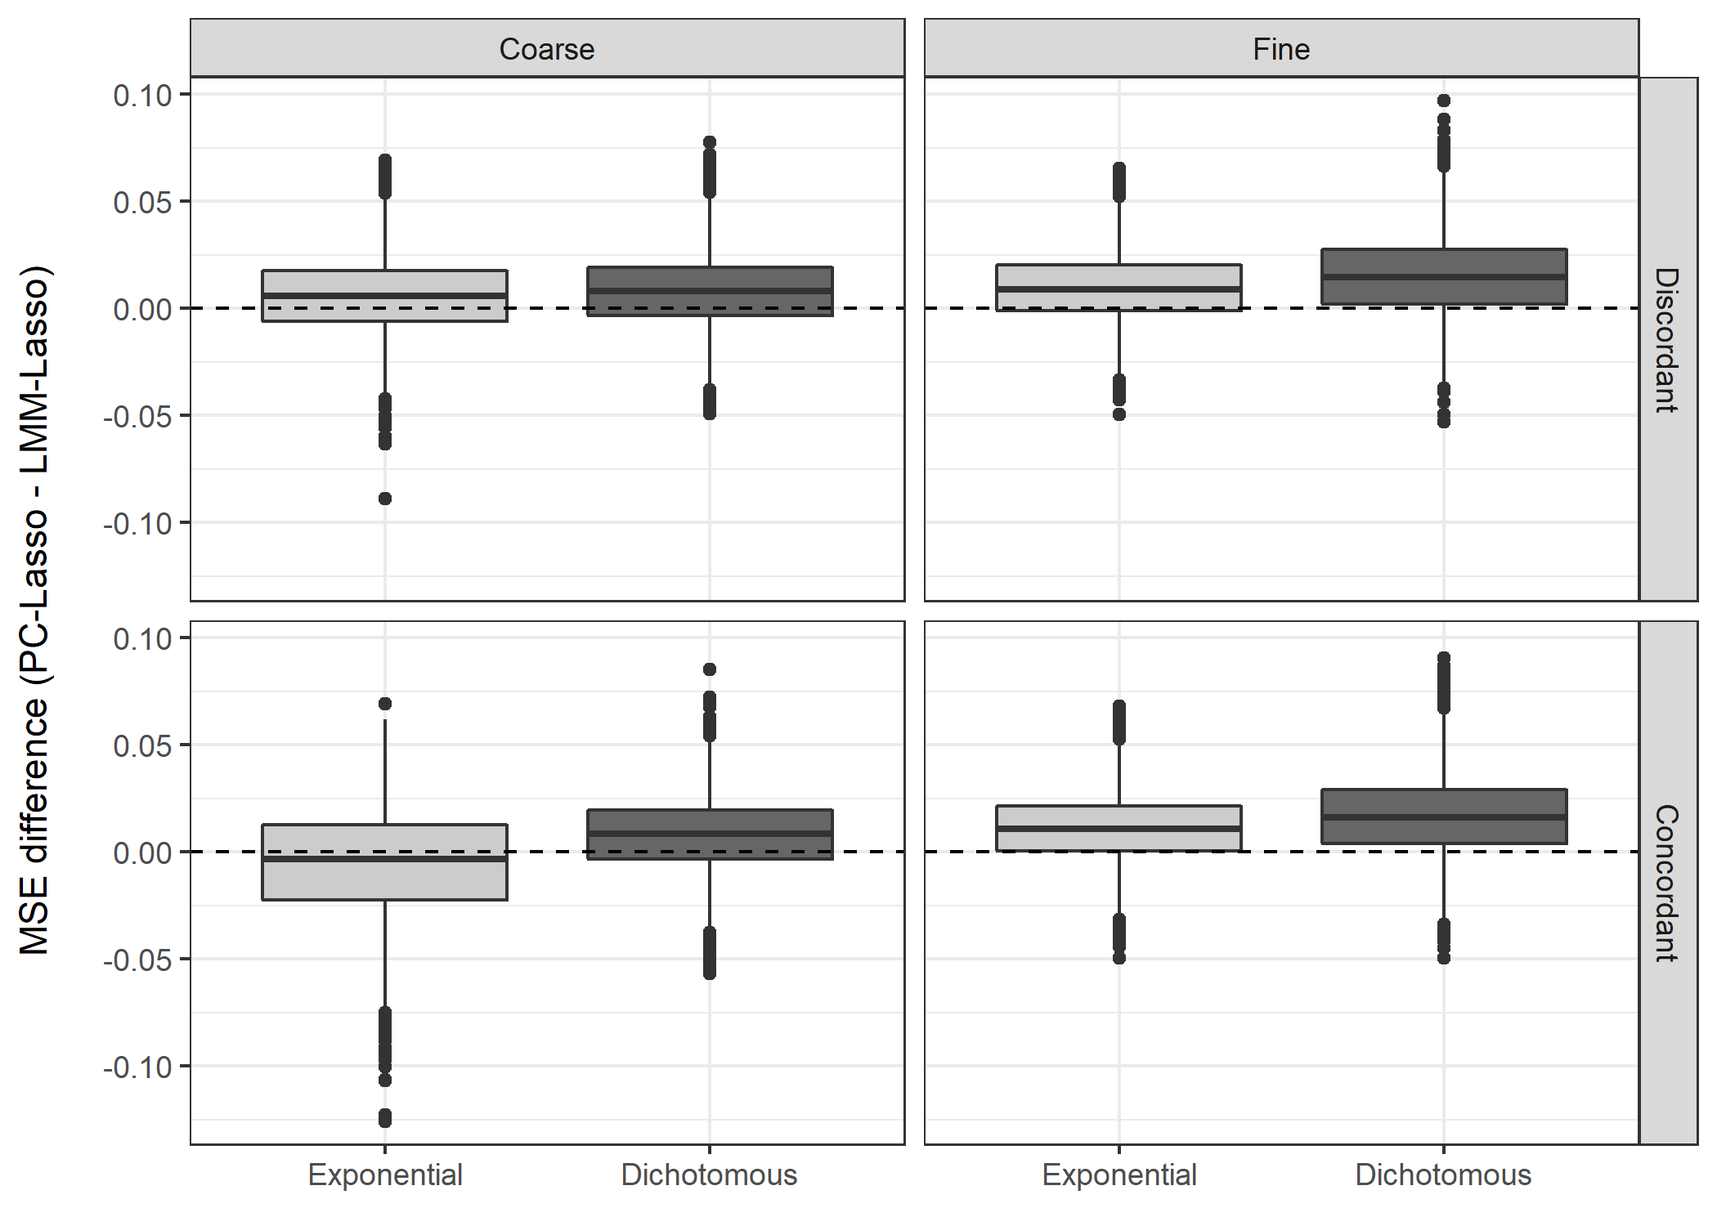
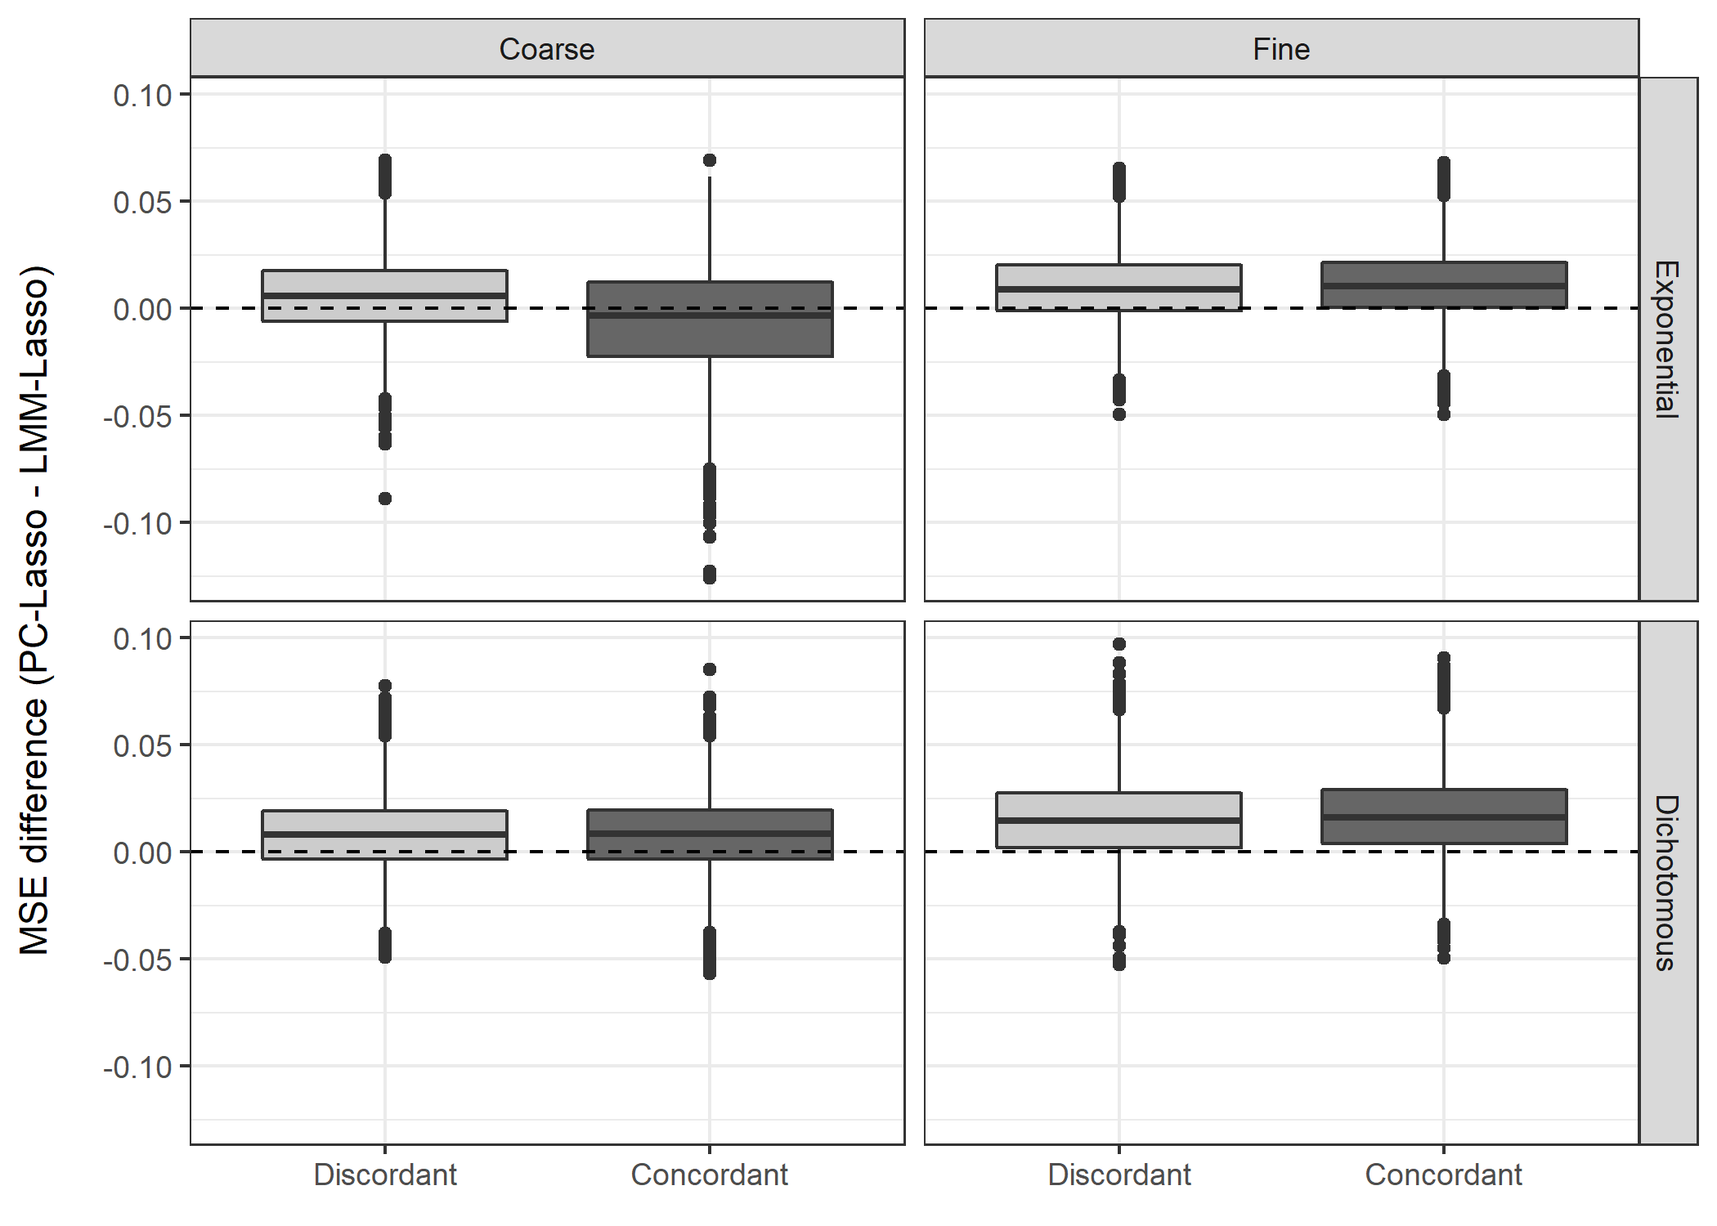
sec 4 updates - in progress

diff --git a/main.tex b/main.tex
@@ -312,6 +312,7 @@ We generated these synthetic phenotypes using three types of high-dimensional ($
 
 
 \subsubsection{Subpopulation structure}
+\label{sec:subpopulation_structure}
 For the fully simulated data, two subpopulation structures were considered, which we refer to as ``fine'' and ``coarse''.  We define a coarse structure to be one characterized by a few large subpopulations intended to model large-scale environmental heterogeneity and population stratification, such as that described in our motivating air quaility example. Conversely, we define a fine subpopulation structure to be one characterized by many small subpopulations, representing a continuum of environmental heterogeneity. Whether fine or coarse, the simulated data were generated such that subpopulations (also known as founding populations) are of equal size. We note that the distinction between fine and coarse structure is an entirely different concept than the level of admixture in the simulated data. It is the size of the subpopulations, not the level of admixture, that determines what we refer to as fine or coarse structure. For example, both the Independent Subpopulation and 1D Linear Admixture simulated data may be comprised of fine or coarse structure. However, the subpopulations will be more distinct in the unadmixed Independent Subpopulation data than in the 1D Linear Admixed data. The Empirical data is comprised of three racial subpopulations; one relatively large, one small, and one in the middle. Thus it represents a hybrid of our simulated coarse and fine structures, with little apparent admixture. Supplementary Figures \ref{fig:admixed} - \ref{fig:empirical} illustrate the simulated kinship structures, as well as that for the Empirical SNP data. 
 
 \subsubsection{Patterns of environmental effects}
@@ -358,9 +359,9 @@ We begin by comparing the ordinary Lasso, PC-Lasso, and LMM-Lasso as the level o
     \label{fig:mse}
 \end{figure}
 
-The bottom row of Figure \ref{fig:mse} shows the MSE when $\xi = 0.8$. In this case, both PC-Lasso and LMM-Lasso clearly outperform the ordinary Lasso. This improvement is more substantial in the Empirical and Independent Subpopulations data than in the 1D Linear Admixture data. This is due to the fact that the Independent Subpopulations and Empirical data sets are characterized by nonoverlapping genetic subpopulations, meaning that a greater proportion of the environmental effect is in the column space of $\boldsymbol{P}_{\bX}$. We can quantify the proportion of the environmental component in the column space of $\boldsymbol{P}_{\bX}$ for each data type using the CP metric defined in \eqref{eqn:ratio} of Section \ref{sec:sim_env_conf}. Here, we have CP $= 0.47, 0.99, 0.61$ for the 1D Linear Admixture, Independent Subpopulations, and Empirical data, respectively. \pb{let's move the 0.61 to the next paragraph} The large CP of the Independent Subpopulations model reflects the extreme confounding and estimation bias for this data, for which the PC-Lasso and LMM-Lasso methods are able to correct. Meanwhile, the less dramatic improvement in MSE for the 1D Linear Admixture data by the PC-Lasso and LMM-Lasso methods confirms what we know from this data's substantially smaller CP value; that there is less confounding and bias which can be corrected for. 
+The bottom row of Figure \ref{fig:mse} shows the MSE when $\xi = 0.8$. In this case, both PC-Lasso and LMM-Lasso clearly outperform the ordinary Lasso. This improvement is more substantial in the Empirical and Independent Subpopulations data than in the 1D Linear Admixture data. This is due to the fact that the Independent Subpopulations and Empirical data sets are characterized by nonoverlapping genetic subpopulations, meaning that a greater proportion of the environmental effect is in the column space of $\boldsymbol{P}_{\bX}$. We can quantify the proportion of the environmental component in the column space of $\boldsymbol{P}_{\bX}$ for each data type using the CP metric defined in \eqref{eqn:ratio} of Section \ref{sec:sim_env_conf}. Here, we have CP $= 0.47, 0.99$ for the 1D Linear Admixture and Independent Subpopulations, respectively. The large CP of the Independent Subpopulations model reflects the extreme confounding and estimation bias for this data, for which the PC-Lasso and LMM-Lasso methods are able to correct. Meanwhile, the less dramatic improvement in MSE for the 1D Linear Admixture data by the PC-Lasso and LMM-Lasso methods confirms what we know from this data's substantially smaller CP value; that there is less confounding and bias which can be corrected for. 
 
-Due to the differing sample sizes and subpopulation structures, a direct comparison of the Empirical CP with those from the simulated data sets is not straightforward. We note that the CP decreases in the presence of subpopulations of unequal sizes and with more outbred subpopulations as in the Empirical data. 
+Due to the differing sample sizes and subpopulation structures, a direct comparison of the Empirical CP $= 0.61$ with those from the simulated data sets is not straightforward. We note that the CP decreases in the presence of subpopulations of unequal sizes and with more outbred subpopulations as in the Empirical data. 
 
 % \anna{MSPE here (?)}
 
@@ -391,13 +392,13 @@ $\eta$ & $\xi$ & \multicolumn{1}{c}{Method} & 1D Linear Admixture & Independent 
 \subsection{LMM-Lasso outperforms PC-Lasso for finer population structures}
 %------------------------------%
 
-Given the superior performance of PC-Lasso and LMM-Lasso compared to the ordinary Lasso in the presence of environmental confounding, we next compare these methods in the presence of fine and coarse subpopulation structures \pb{as defined in section....}. Phenotypes were simulated using a 1:1 SNR, $\eta = 0.5$, and varying levels of environmental confounding, $\xi \in \{0.2, 0.5,0.8\}$. 
+Given the superior performance of PC-Lasso and LMM-Lasso compared to the ordinary Lasso in the presence of environmental confounding, we next compare these methods in the presence of fine and coarse subpopulation structures as defined in section \ref{sec:subpopulation_structure}. Synthetic phenotypes were simulated using a 1:1 SNR, $\eta = 0.5$, and varying levels of environmental confounding, $\xi \in \{0.2, 0.5,0.8\}$. 
 
 \begin{figure}[H]
     \centering
     % \includegraphics[scale = 0.9]{figures/mse_diff_subpops}
      \includegraphics[width=0.8\textwidth]{figures/mse_diff_subpops.png}
-    \caption{Relative performance of LMM-Lasso, PC-Lasso for fine and coarse subpopulation structures and varying levels of environmental confounding with Independent Subpopulations data, $\eta = 0.5$, and dichotomous-discordant environmental effects. \pb{This figure could maybe be shorter -- takes up a lot of vertical room that isn't really necessary}}
+    \caption{Relative performance of LMM-Lasso, PC-Lasso for fine and coarse subpopulation structures and varying levels of environmental confounding with Independent Subpopulations data, $\eta = 0.5$, and dichotomous-discordant environmental effects. }
     \label{fig:big_vs_small}
 \end{figure}
 
@@ -410,11 +411,11 @@ Overall, in all of the settings, LMM-Lasso outperformed PC-Lasso, although the d
 \subsection{LMM-Lasso outperforms PC-Lasso when environmental effects are discordant}
 %------------------------------%
 
-In addition to evaluating PC-Lasso and LMM-Lasso in the presence of coarse and fine subpopulation structure, we also consider various patterns of environmental effects. Figure \ref{fig:big_small_gamma} shows the difference in MSE (PC-Lasso - LMM-Lasso) broken down by both subpopulation and \pb{``coefficient structure'' is vague; can we describe this better?} coefficient structure. Results are shown for phenotypes generated with $\eta = 0.5$, $\xi = 0.8$, and Independent Subpopulations.
+In addition to evaluating PC-Lasso and LMM-Lasso in the presence of coarse and fine subpopulation structure, we also consider various patterns of environmental effects. Figure \ref{fig:big_small_gamma} shows the difference in MSE (PC-Lasso - LMM-Lasso) broken down by both subpopulation and \anna{environmental effect pattern}. Results are shown for phenotypes generated with $\eta = 0.5$, $\xi = 0.8$, and Independent Subpopulations.
 
-\pb{What do you think about dropping the exponential/dichotomous thing and just going with dichotomous throughout?  Doesn't really seem super important.  Well, we can just keep it in mind and if we need to cut down on space / figures, we can think about it.}
+\pb{What do you think about dropping the exponential/dichotomous thing and just going with dichotomous throughout?  Doesn't really seem super important.  Well, we can just keep it in mind and if we need to cut down on space / figures, we can think about it.} \anna{so leave for now?}
 
-The right-hand panels of Figure \ref{fig:big_small_gamma} are consistent with Figure \ref{fig:big_vs_small}, showing superior LMM-Lasso performance in the presence of fine subpopulation structure, regardless of coefficient magnitude or concordance. The upper left hand panel of Figure \ref{fig:big_small_gamma} corresponds to coarse subpopulation structure with discordant coefficients and also appears to be a setting where LMM-Lasso outperforms PC-Lasso, regardless of coefficient magnitude, although there is some overlap with PC-Lasso. The lower left hand panel of Figure \ref{fig:big_small_gamma} shows results for the setting of coarse supopulation structure with concordant coefficients. In this setting, PC-Lasso and LMM-Lasso perform comparably in the presence of exponential-concordant environmental effects, while LMM-Lasso outperforms PC-Lasso in the majority of dichotomous-concordant environmental effects. These findings align with our initial hypothesis that PC-Lasso will perform well in the presence of simple environmental effect patterns that can be well-approximated by a linear combination of the observed data. When that is not the case, either due to the presence of fine subpopulation structure, dichotomous effects, or genetic similarity that does not reflect similar environmental effects, LMM-Lasso exhibits estimation accuracy superior to that of PC-Lasso.
+\anna{RE-WRITE THIS TO MAKE SURE IT MAKES SENSE WITH NEW FIGURES} The right-hand panels of Figure \ref{fig:big_small_gamma} are consistent with Figure \ref{fig:big_vs_small}, showing superior LMM-Lasso performance in the presence of fine subpopulation structure, regardless of coefficient magnitude or concordance. The upper left hand panel of Figure \ref{fig:big_small_gamma} corresponds to coarse subpopulation structure with discordant coefficients and also appears to be a setting where LMM-Lasso outperforms PC-Lasso, regardless of coefficient magnitude, although there is some overlap with PC-Lasso. The lower left hand panel of Figure \ref{fig:big_small_gamma} shows results for the setting of coarse supopulation structure with concordant coefficients. In this setting, PC-Lasso and LMM-Lasso perform comparably in the presence of exponential-concordant environmental effects, while LMM-Lasso outperforms PC-Lasso in the majority of dichotomous-concordant environmental effects. These findings align with our initial hypothesis that PC-Lasso will perform well in the presence of simple environmental effect patterns that can be well-approximated by a linear combination of the observed data. When that is not the case, either due to the presence of fine subpopulation structure, dichotomous effects, or genetic similarity that does not reflect similar environmental effects, LMM-Lasso exhibits estimation accuracy superior to that of PC-Lasso.
 
 \begin{figure}[H]
     \centering
@@ -424,8 +425,6 @@ The right-hand panels of Figure \ref{fig:big_small_gamma} are consistent with Fi
     \label{fig:big_small_gamma}
 \end{figure}
 
-\pb{Not sure I love this figure, as it emphasizes exp vs dichotomous, which isn't really very interesting.  Can we re-panel it so that it emphasizes discordant vs concordant?}
-
 %------------------------------%
 \subsection{Different implementations of LMM-Lasso}
 %------------------------------%
@@ -434,11 +433,11 @@ In Section \ref{sec:lmmlasso} we briefly mentioned the existence of two LMM-Lass
 
 LMM-Lasso-Rakitsch uses a two-step approach. First, the variance components are estimated under the assumption of a null model. Then, the estimated variance components are used to transform the data, and the $\bbeta$ are estimated using coordinate descent. LMM-Lasso-ggmix seeks to improve upon this procedure by re-estimating the variance components and $\bbeta$ iteratively. Although this seems a reasonable approach, we have been unable to find a scenario where LMM-Lasso-ggmix reliably outperforms the LMM-Lasso-Rakitsch in estimation accuracy of $\bbeta$. In order to systematically compare both methods, we carried out simulations where $p = 1000$, $n = \{200, 400, 600, 800, 1000, 1200, 1400\}$, and $\eta = \{0.2, 0.5, 0.8\}$. Figure \ref{fig:eta_beta_mse} shows the MSE for estimation of the parameters $\bbeta$ and $\eta$, in addition to the corresponding computing time required. 
 
-LMM-Lasso-Rakitsh and LMM-Lasso-ggmix achieve nearly identical MSE for $\bbeta$ in many scenarios, particularly where $n << p$ \pb{you want $n \ll p$, not $n << p$; this occurs a bunch}, as shown in the top panel of Figure \ref{fig:eta_beta_mse}. However, when $n \ge p$ the estimation performance of LMM-ggmix becomes erratic, and in some cases worse than that of LMM-Lasso-Rakitsch. This is most dramatic in the presence of substantial environmental environmental confounding, $\xi = 0.8$, and $n = \{1200, 1400\}$. 
+LMM-Lasso-Rakitsh and LMM-Lasso-ggmix achieve nearly identical MSE for $\bbeta$ in many scenarios, particularly where $n \ll p$, as shown in the top panel of Figure \ref{fig:eta_beta_mse}. However, when $n \ge p$ the estimation performance of LMM-ggmix becomes erratic, and in some cases worse than that of LMM-Lasso-Rakitsch. This is most dramatic in the presence of substantial environmental environmental confounding, $\xi = 0.8$, and $n = \{1200, 1400\}$. 
 
-LMM-Lasso-ggmix achieves an improvement in the estimation of $\eta$ compared to LMM-Lasso-Rakitsch, particularly in the presence of lower $\eta$ values and where $n << p$, as shown in the middle panel of Figure \ref{fig:eta_beta_mse}. These improved $\eta$ estimates do not correspond to smaller $\bbeta$ MSE for LMM-Lasso-ggmix and thus do not seem to improve its estimation of the fixed genetic effects. In addition, when $n \ge 1000$, LMM-Lasso-ggmix's estimation of $\eta$ suffers. When $n \ge 1000$ and substantial environmental confounding is present, $\xi = 0.8$,  LMM-Lasso-ggmix's performance is hindered to the point that LMM-Lasso-Rakitsch estimates $\eta$ more accurately.
+LMM-Lasso-ggmix achieves an improvement in the estimation of $\eta$ compared to LMM-Lasso-Rakitsch, particularly in the presence of lower $\eta$ values and where $n \ll p$, as shown in the middle panel of Figure \ref{fig:eta_beta_mse}. These improved $\eta$ estimates do not correspond to smaller $\bbeta$ MSE for LMM-Lasso-ggmix and thus do not seem to improve its estimation of the fixed genetic effects. In addition, when $n \ge 1000$, LMM-Lasso-ggmix's estimation of $\eta$ suffers. When $n \ge 1000$ and substantial environmental confounding is present, $\xi = 0.8$,  LMM-Lasso-ggmix's performance is hindered to the point that LMM-Lasso-Rakitsch estimates $\eta$ more accurately.
 
-Overall these results show that LMM-Lasso-ggmix performs as well as LMM-Lasso-Rakitsch in estimating $\bbeta$ and outperforms LMM-Lasso-Rakitsch in estimating $\eta$ when $n << p$. However, these are also the settings in which LMM-Lasso-ggmix is least computationally efficient. The bottom panel of Figure \ref{fig:eta_beta_mse} shows the computing time required of each method in the various simulation settings, and shows that when $n << p$, LMM-Lasso-ggmix is up to 60 times slower than LMM-Lasso-Rakitsch. Conversely, in settings where $n \ge p$, LMM-Lasso-ggmix is up to 10 times faster than LMM-Lasso-Rakitsch. However, these are also settings in which LMM-Lasso Rakitsch substantially outperforms LMM-Lasso-ggmix in estimating $\bbeta$ and $\eta$ accurately and consistently. 
+Overall these results show that LMM-Lasso-ggmix performs as well as LMM-Lasso-Rakitsch in estimating $\bbeta$ and outperforms LMM-Lasso-Rakitsch in estimating $\eta$ when $n \ll p$. However, these are also the settings in which LMM-Lasso-ggmix is least computationally efficient. The bottom panel of Figure \ref{fig:eta_beta_mse} shows the computing time required of each method in the various simulation settings, and shows that when $n \ll p$, LMM-Lasso-ggmix is up to 60 times slower than LMM-Lasso-Rakitsch. Conversely, in settings where $n \ge p$, LMM-Lasso-ggmix is up to 10 times faster than LMM-Lasso-Rakitsch. However, these are also settings in which LMM-Lasso Rakitsch substantially outperforms LMM-Lasso-ggmix in estimating $\bbeta$ and $\eta$ accurately and consistently. 
 
 LMM-Lasso-ggmix's poor performance in these scenarios are likely attributable to a number of a factors such as an ill-conditioned RRM  in $n \ge p$ settings \citep{ledoit2004well}. In addition, because LMM-Lasso-ggmix attempts to estimate more parameters than LMM-Lasso-Rakitsch, its optimization problem is not necessarily convex, making it prone to getting stuck in local minima before it is able to extensively explore the coefficient path. An examination of the number of iterations required for convergence for each $\lambda$ in the coefficient path suggests that this is the case for our various simulation settings (Supplementary Figure \ref{fig:niter}). Converging to a local minimum in this manner would lead to few iterations required for each $\lambda$ value before convergence, allowing for an advantage in terms of computational speed, but poor estimation, which is what we observe in Figure \ref{fig:eta_beta_mse}.
 
@@ -463,7 +462,7 @@ We have detailed the assumptions made by PC-Lasso and LMM-Lasso, which model con
 
 Unsurprisingly, we find that PC-Lasso and LMM-Lasso outperform the ordinary Lasso whenever environmental confounding effects are present. However, in the absence of such effects, PC-Lasso may hinder estimation accuracy and perform more poorly than even the ordinary Lasso. This is due to the fact that the principal components are unpenalized and thus included in the final model, even when they do more harm than good in explaining phenotypic variability. Additionally, we find that LMM-Lasso outperforms PC-Lasso in the presence of fine subpopulation structure and when confounding effects are discordant in nature. In the presence of coarse subpopulation structure and exponential environmental effects, PC-Lasso performs comparably to LMM-Lasso in estimation accuracy. However, LMM-Lasso is more robust to subpopulation structure and complex patterns of environmental effects. Therefore, LMM-Lasso may be a more robust method for practitioners seeking to obtain unbiased estimates when the nature of the population structure and environmental heterogeneity are unknown.  
 
-We considered two implementations of the LMM-Lasso method: LMM-Lasso-Rakitsch and LMM-Lasso-ggmix, which differ in their variance estimation procedures and computational implementations. Although we found that both methods perform similarly in terms of $\bbeta$ estimation accuracy, LMM-Lasso-ggmix has several drawbacks. Firstly, it suffers from estimation instability in $n \ge p$ settings. Secondly, although LMM-Lasso-Rakitsch and LMM-Lasso-ggmix perform comparably when $n << p$, LMM-Lasso-ggmix requires up to 60 times the computing time of LMM-Lasso-Rakitsch in these settings due to its iterative estimation procedure. The additional time required of LMM-Lasso-ggmix may be worthwhile if the objective of an analysis is to accurately estimate the narrow-sense heritability in $n << p$ settings. However, the LMM-Lasso-Rakitsch method is more robust to varying levels of environmental confounding and sample sizes and thus more broadly applicable. 
+We considered two implementations of the LMM-Lasso method: LMM-Lasso-Rakitsch and LMM-Lasso-ggmix, which differ in their variance estimation procedures and computational implementations. Although we found that both methods perform similarly in terms of $\bbeta$ estimation accuracy, LMM-Lasso-ggmix has several drawbacks. Firstly, it suffers from estimation instability in $n \ge p$ settings. Secondly, although LMM-Lasso-Rakitsch and LMM-Lasso-ggmix perform comparably when $n \ll p$, LMM-Lasso-ggmix requires up to 60 times the computing time of LMM-Lasso-Rakitsch in these settings due to its iterative estimation procedure. The additional time required of LMM-Lasso-ggmix may be worthwhile if the objective of an analysis is to accurately estimate the narrow-sense heritability in $n \ll p$ settings. However, the LMM-Lasso-Rakitsch method is more robust to varying levels of environmental confounding and sample sizes and thus more broadly applicable. 
 
 \citet{Rakitsch2012} parameterize their model in terms of the variance components $\sigmagg$ and $\delta := \sigmaee / \sigmagg$ as previously discussed, however, we have implemented the LMM-Lasso-Rakitsch method using the equivalent but more interpretable parameterization in terms of $\eta$ and $\sigmaee$ in the \texttt{R} package, \texttt{penalizedLMM}, available on the author's github repository \url{https://github.com/areisett/penalizedLMM}.
 
